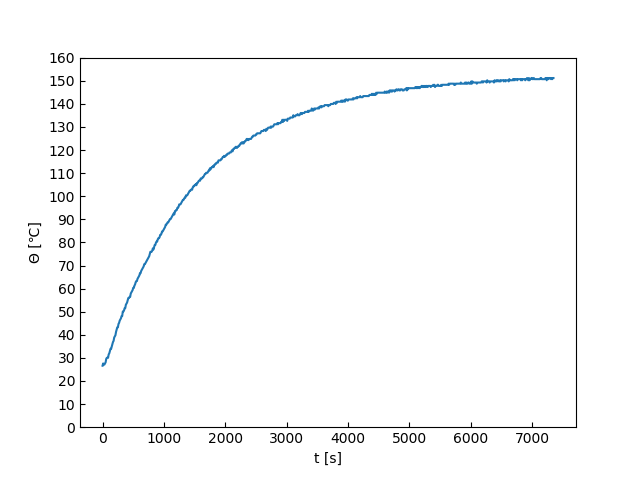
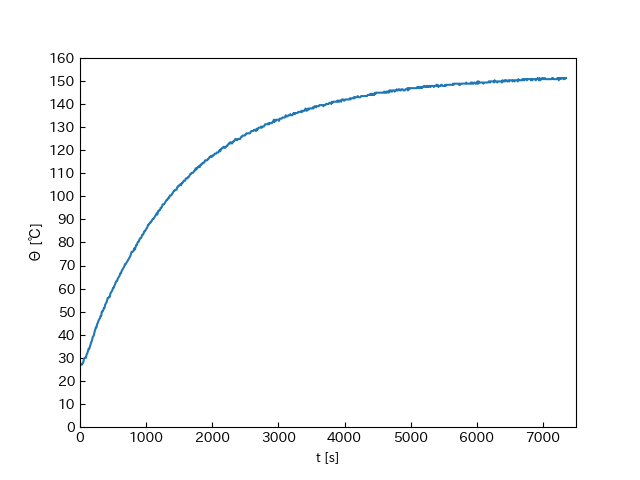
Add graphEdge

diff --git a/SeigyoExp3/plotData.py b/SeigyoExp3/plotData.py
@@ -4,6 +4,11 @@ import matplotlib.pyplot as plt
 import numpy as np
 import pandas as pd
 from matplotlib import rcParams
+
+#
+import japanize_matplotlib
+#
+
 rcParams['xtick.direction'] = 'in'
 rcParams['ytick.direction'] = 'in'
 
@@ -11,7 +16,7 @@ rcParams['ytick.direction'] = 'in'
 data_num  = 4 # 使用するデータ番号0~4
 start_pos = 20  # 傾きの始まる点
 end_pos   = 200 # 傾きの終わる点
-sampling_ratio = 29 # サンプリングの周期
+sampling_ratio = 30 # サンプリングの周期
 method_n = 1 # 前nと後nの平均値を取る # 1以外については未実装
 
 
@@ -55,28 +60,42 @@ def error_sum(data, t_data, K_p=2.4908, T_p=1516.3, L_p=23.0744):
     sum_diff = sum([abs(e-f)/e for e,f in zip(data, c)])/len(data)
     return sum_diff
 
-#
-#mat = np.array(csv_read('datasets/bc_controll.CSV'))*100
-#time_mat = np.array(range(0, len(mat)))*10
-#data1 = mat[:,data_num]
-#plt.plot(time_mat, data1)
-#plt.xlabel("t [s]")
-#plt.xticks(range(0,4000,1000))
-#plt.yticks(range(20,80,10))
-#plt.ylabel("Θ [℃]")
-#plt.show()
+# Control_Exp.png
+mat = np.array(csv_read('datasets/bc_controll.CSV'))*100
+time_mat = np.array(range(0, len(mat)))*10
+data1 = mat[:,data_num]
+y = 0*time_mat+59.15
+plt.plot(time_mat, data1)
+plt.plot(time_mat, y, linestyle="dashed")
+plt.xlabel("t [s]")
+plt.xticks(range(0,4000,1000))
+plt.yticks(range(20,80,10))
+#plt.axis(xmin=0, xmax, ymin, ymax)
+plt.axis(xmin=0, xmax=2300)
+plt.ylabel("Θ [℃]")
+tmp_x = np.array(range(1400, 1600, 100))
+tmp_y = 0*tmp_x + 30
+plt.plot(tmp_x, tmp_y)
+tmp_y = 0*tmp_x + 27
+plt.plot(tmp_x, tmp_y, linestyle="dashed")
+plt.text(x=1530, y=30.5-1, s="実測値")
+plt.text(x=1530, y=27.5-1, s="Θ(t)=59.15")
+plt.show()
 #
 mat = np.array(csv_read('datasets/bc.CSV'))*100
 time_mat = np.array(range(0, len(mat)))*10
 #print(mat)
 #print(len(mat))
 #print(len(mat[0]))
+
 data1 = mat[:,data_num] #TODO DATA番号
+## Identification.png
 #plt.plot(time_mat, data1)
 #plt.xlabel("t [s]")
 #plt.xticks(range(0,8000,1000))
 #plt.yticks(range(0,170,10))
 #plt.ylabel("Θ [℃]")
+#plt.axis(xmin=0, xmax=7500)
 #plt.show()
 #print(len(data1))
 #print(len(data1[0]))
@@ -114,21 +133,22 @@ data_diff = next_sample_data - prev_sample_data
 #plt.plot(data_diff)
 log_data = np.log(data_diff)
 
-plt.plot(sample_time,log_data)
 a,b = a_b(mat_x=sample_time, mat_y=log_data)
-x = np.linspace(10*start_pos,end_pos*10-sampling_ratio*10,10)
-y = a*x + b 
-plt.plot(x, y, linestyle="dashed")
-
-# 軸ラベル
-tmp_x = np.array(range(100, 200, 10))
-tmp_y = 0*tmp_x + 2
-plt.plot(tmp_x, tmp_y)
-tmp_x = np.array(range(100, 200, 10))
-tmp_y = 0*tmp_x + 1.9
-plt.plot(tmp_x, tmp_y, linestyle="dashed")
-plt.text(x=220, y=2.00-0.01, s="実測値")
-plt.text(x=220, y=1.90-0.01, s="y=ax+b")
+##z-t200s.png
+#x = np.linspace(10*start_pos,end_pos*10-sampling_ratio*10,10)
+#y = a*x + b 
+#plt.plot(x,y,linestyle="dashed")
+#plt.plot(sample_time,log_data)
+#tmp_x = np.array(range(230, 330, 10))
+#tmp_y = 0*tmp_x + 1.9
+#plt.plot(tmp_x, tmp_y)
+#tmp_x = np.array(range(230, 330, 10))
+#tmp_y = 0*tmp_x + 1.8
+#plt.plot(tmp_x, tmp_y, linestyle="dashed")
+#plt.text(x=350, y=1.90-0.01, s="実測値")
+#plt.text(x=350, y=1.80-0.01, s="z="+str(a)+"t+"+str(b))
+#plt.axis(xmin=190, xmax=end_pos*10-sampling_ratio*10 + 10)
+#plt.show()
 
 print("a:", a, ", b:",b)
 #print("end:", mat[-1, data_num], "start:",mat[0, data_num])
@@ -139,11 +159,24 @@ print("T_p:",T_p)
 L_p = T_p*(b-np.log(50*K_p*(1-np.exp(-sampling_ratio*10/T_p))))
 print("L_p:", L_p)
 
-plt.xlabel("t[s]")
-plt.ylabel("z(t)")
-#plt.xticks(range(0))
-plt.yticks([1.8,2.0,2.2,2.4,2.6,2.8,2.8, 3.0, 3.2])
-plt.show()
+## step_response200s.png
+#model_data = 50*K_p*(1-np.exp(-(time_mat-L_p)/T_p))+data1[0]
+#plt.xlabel("t [s]")
+#plt.ylabel("Θ (t)")
+#plt.plot(time_mat, model_data, linestyle='dashed')
+#plt.plot(time_mat, data1)
+##plt.xticks(range(0))
+## 軸ラベル
+#tmp_x = np.array(range(4000, 5000, 100))
+#tmp_y = 0*tmp_x + 50
+#plt.plot(tmp_x, tmp_y)
+#tmp_y = 0*tmp_x + 40
+#plt.plot(tmp_x, tmp_y, linestyle="dashed")
+#plt.text(x=5100, y=50-1, s="実測値")
+#plt.text(x=5100, y=40-1, s="モデル値")
+#plt.yticks(range(0, 180, 20))
+#plt.axis(xmin=0, xmax=7500)
+#plt.show()
 
 error_t = error_sum(data1, time_mat ,K_p=K_p, T_p=T_p, L_p=L_p)
 #error_t = error_sum(data1, time_mat)
